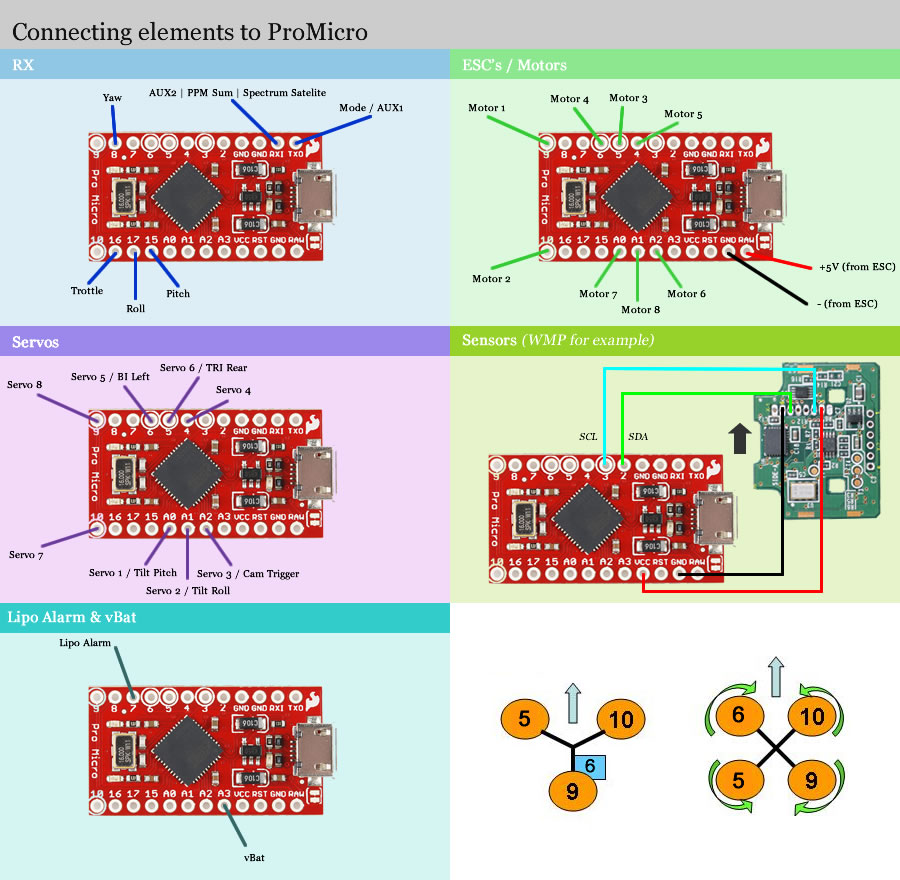
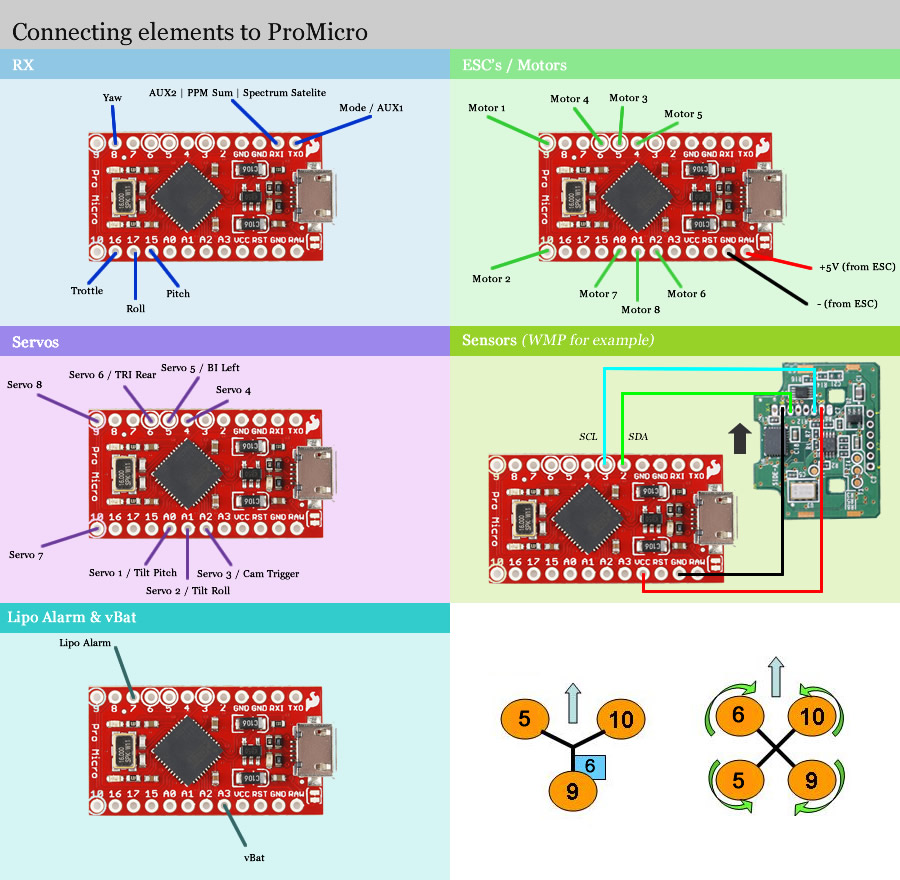
servo 5 & 6 pins was reversed. now thay are correct

Changed region(s): [[0.0933, 0.3989, 0.28, 0.4295]]

diff --git a/def.h b/def.h
@@ -177,14 +177,14 @@
   #define SERVO_4_PIN_LOW   PORTD &= ~(1<<4);
   
   // BI LEFT
-  #define SERVO_5_PINMODE   pinMode(6,OUTPUT);
-  #define SERVO_5_PIN_HIGH  PORTD|= 1<<7;
-  #define SERVO_5_PIN_LOW   PORTD &= ~(1<<7);
+  #define SERVO_5_PINMODE   pinMode(5,OUTPUT);
+  #define SERVO_5_PIN_HIGH  PORTC|= 1<<6;
+  #define SERVO_5_PIN_LOW   PORTC &= ~(1<<6);
   
   // TRI REAR
-  #define SERVO_6_PINMODE   pinMode(5,OUTPUT);
-  #define SERVO_6_PIN_HIGH  PORTC |= 1<<6;
-  #define SERVO_6_PIN_LOW   PORTC &= ~(1<<6);
+  #define SERVO_6_PINMODE   pinMode(6,OUTPUT);
+  #define SERVO_6_PIN_HIGH  PORTD |= 1<<7;
+  #define SERVO_6_PIN_LOW   PORTD &= ~(1<<7);
   
   // new motor pin 10
   #define SERVO_7_PINMODE   pinMode(10,OUTPUT);
